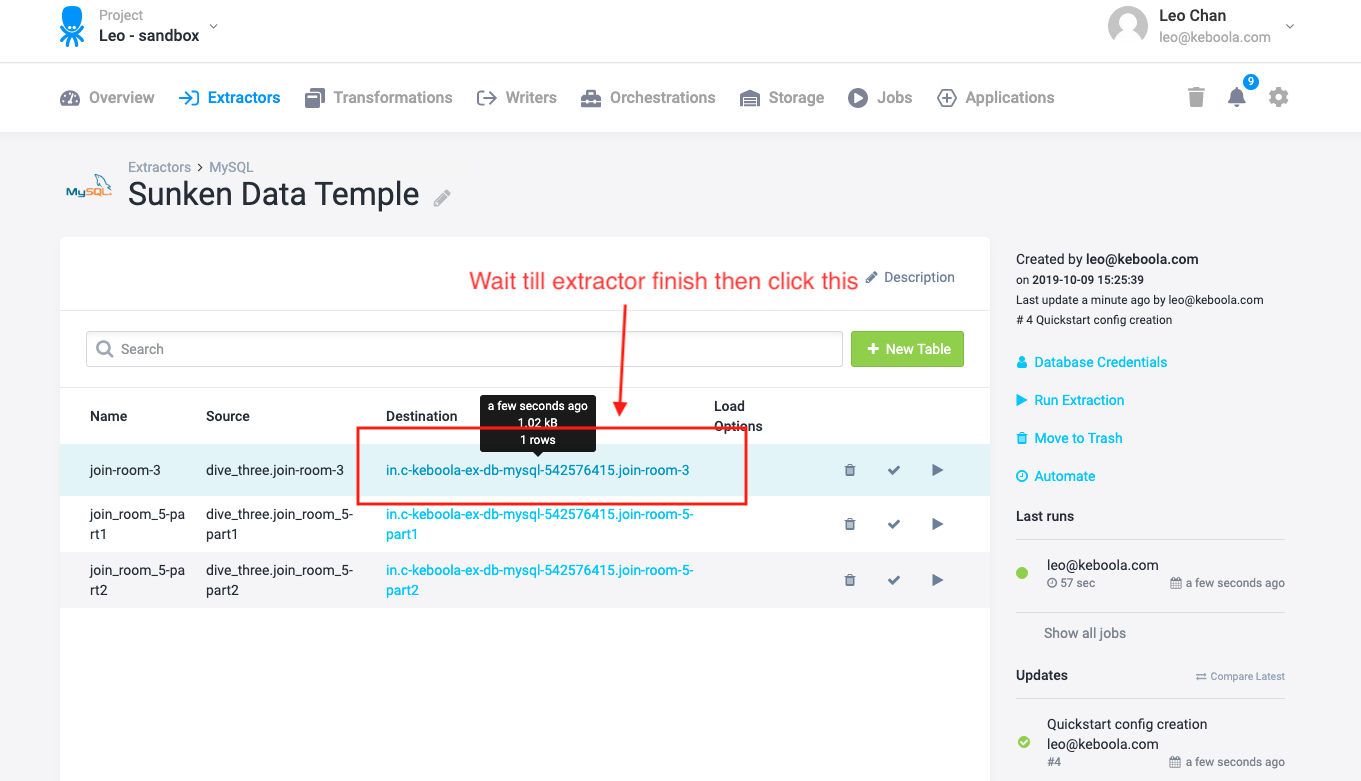
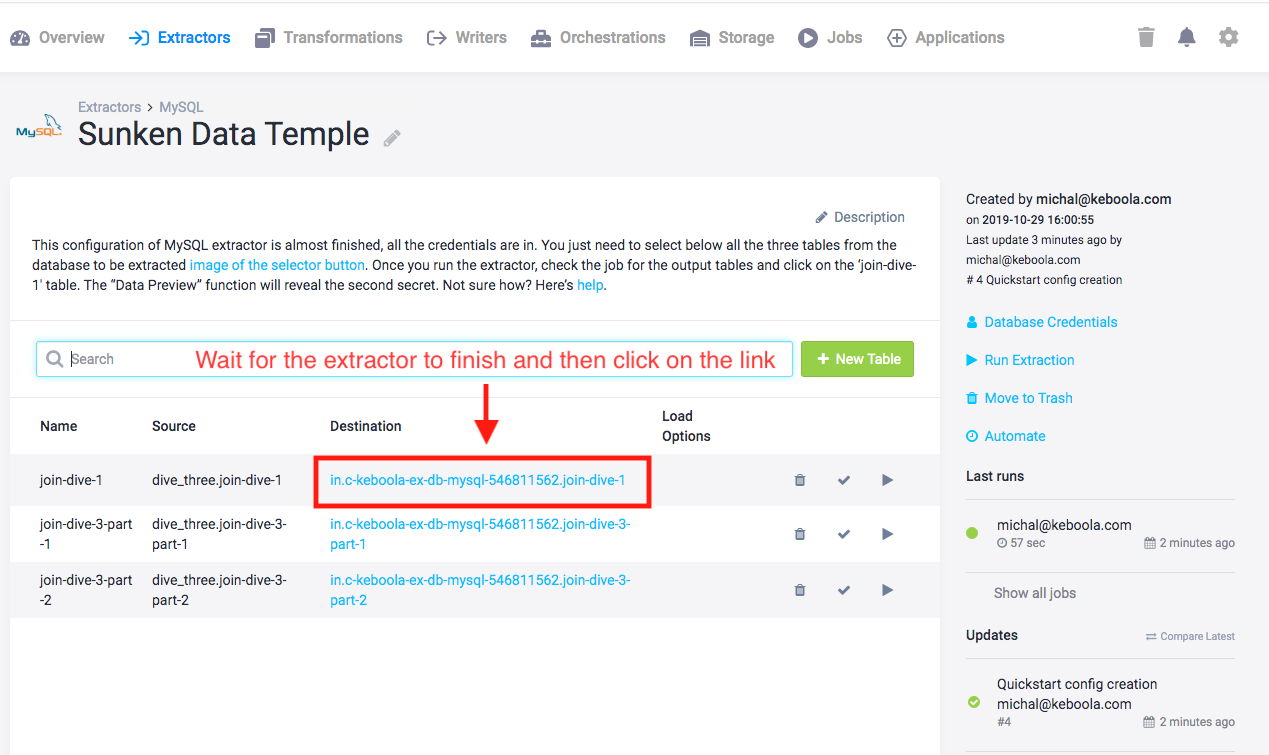
sunken data temple wip

diff --git a/sunkendatatemple/index.md b/sunkendatatemple/index.md
@@ -105,6 +105,93 @@ Scroll almost all the way down. There you go. Easy, no?
 
 ## Dive 3
 
-*Coming soon.*
+OK, transformations. Similar to the first puzzle, you will need to use your Keboola device to retrieve the secret from data. 
+This time you are using the Transformations engine to join two tables and get the secret from the result. 
+The puzzle itself is a broken SQL code that you need to fix. Here is how to go about it. Go to Transformations, 
+then select the <Sunken Data Temple> transformation bucket and the <Dive 3> transformation itself:
+
+{: .image-popup}
+![Screenshot - Select new transformation](/sunkendatatemple/13-select-transformation.png)
+
+The description of the transformation will give you further hints, but here it goes as well. 
+Scroll down on the next page to see the SQL query:
+
+{: .image-popup}
+![Screenshot - Scroll down to see SQL query](/sunkendatatemple/14-scroll-down.png)
+
+The query is the culprit, it’s not doing what it is supposed to.
+
+{: .image-popup}
+![Screenshot - Incorrect SQL query](/sunkendatatemple/15-query.png)
+
+Once you fix it, just save and run the transformation:
+
+{: .image-popup}
+![Screenshot - Fix SQL query](/sunkendatatemple/16-fix-query.png)
+
+Then you need to find the output table (just click on it in the “output mapping” section), go to Data Sample and read the secret. 
+No, we won’t just write it here. If you can’t get it out of the transformation, you can go into Google Translate and type the word
+“**spisovatel**”. It should recognize it as a Czech word and its English translation just happens to be the 3rd secret. 
+So back to the Sunken Data Temple app, enter the secret and run it again!
+
+## Dive 4
+Not sure how to help here. The task is pretty straightforward --- 
+go to [https://get.keboola.com/join-looker-2019](https://get.keboola.com/join-looker-2019), 
+and you’ll find a “Get The Keboola JOIN 2019 App” button on it. Get the app on your phone or tablet:
+
+{: .image-popup}
+![Screenshot - Get The Keboola JOIN 2019 App](/sunkendatatemple/17-get-app.png)
+
+{: .image-popup}
+![Screenshot - Get The Keboola JOIN 2019 App](/sunkendatatemple/18-get-app.png)
+
+{: .image-popup}
+![Screenshot - Get The Keboola JOIN 2019 App](/sunkendatatemple/19-get-app.png)
+
+Find a “Freebies” section:
+
+{: .image-popup}
+![Screenshot - Find Freebies section](/sunkendatatemple/20-freebies.png)
+
+Once in there, the secret should be pretty obvious.
+
+In case you ran into any trouble and you need to get the secret without the app, well… Google the text **“is the study or practice of writing music for an orchestra”**:
+
+{: .image-popup}
+![Screenshot - Google text](/sunkendatatemple/21-google-text.png)
+
+The title of the Wikipedia page that pops up is the secret.
+
+## Dive 5
+For this puzzle you’ll need to use Keboola again --- this time it’s “bucket sharing” feature. 
+Its job is to simplify sharing data between different projects or teams within the organization. 
+It’s pretty straightforward. Go to the “Storage” section, and click on the “link shared bucket” button:
+
+{: .image-popup}
+![Screenshot - Go to Storage click link](/sunkendatatemple/22-storage.png)
+
+From the selection of buckets, pick the one called “room number 5 ”. There is a table in it. Check its content and there is the secret!
+
+Trouble still? Well, it’s a synonym of the word “pail”, which is frequently used together with the word “list”. 
+There’s even a great movie with that title. Morgan Freeman and Jack Nicholson are in it. Enough hints?
+
+## Dive 6
+Here we come! The Last Dive! Come on, you got this far and NOW you need help? OK. 
+When you sign up for our webinar --- link is [HERE](https://keboola.zoom.us/webinar/register/WN_fVv4mF18QZu7unjUWFVX1g) 
+--- the confirmation email will have the secret in it.
+
+Does that not work for you for whatever reason? Don’t despair. There was a lady, famous for French cooking 
+(wrote a book and had a TV show!). Last name? Child. First name? That’s the secret. 
+Also a programming language, getting more and more popular with data scientists. A new transformation backend in Keboola. Good now?
+
+## Dive 7
+Now for something completely different! We’re in Looker dashboard now. The task is still pretty simple though 
+--- just pick the last three secrets from the game correctly from the filters on top of the dashboard, click on RUN and 
+you’re off to the races! Then scroll down for your prize code. See you at JOIN2019! And if you are not coming, 
+just e-mail us with your code and we’ll find a way to get it to you. 
+
+Thanks for playing!
+
+
 
 
